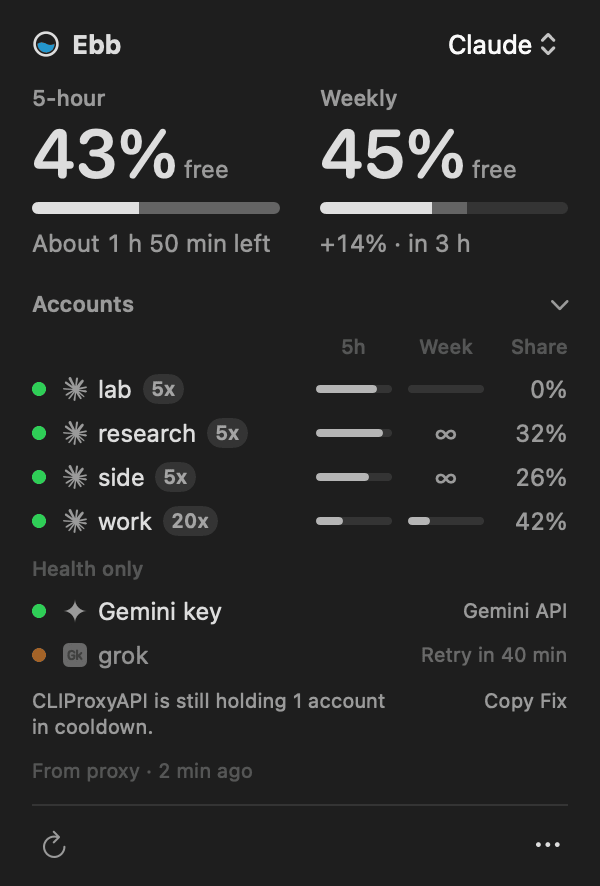
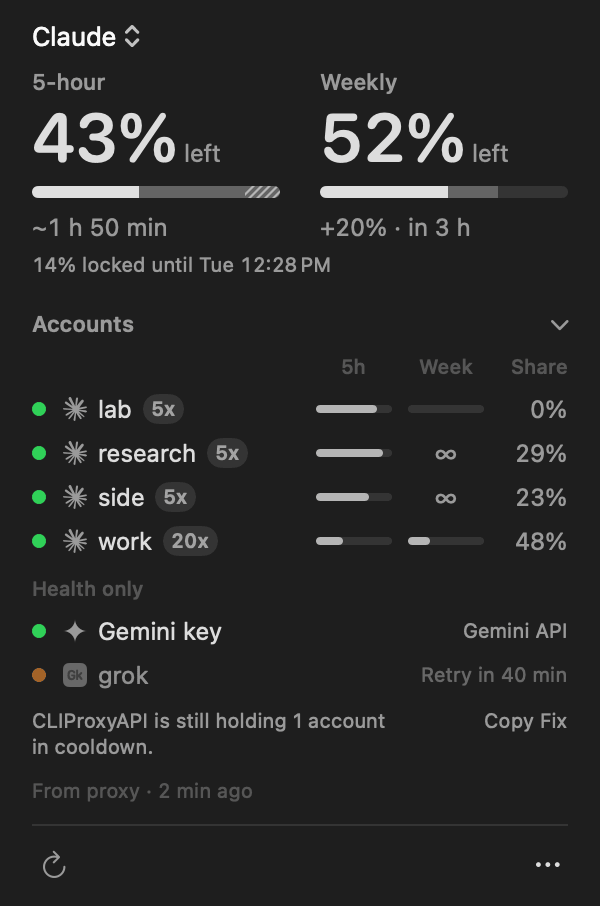
update readme media to the v0.1 panel and add the prompt cache tip
The panel changed in #7-#13: "left" copy, inline "~40 min", the locked
hatch and caption, Settings split into General and Menu Bar tabs. Every
README image and the GIF were rendered offscreen from 1d4a7a3 with --demo.
Through CLIProxyAPI Claude Code falls back to the 5-minute prompt cache;
the tip shows how to ask for the hour back.

diff --git a/README.md b/README.md
@@ -26,7 +26,7 @@
   <tr><th></th><th>Light</th><th>Dark</th></tr>
   <tr>
     <td>Panel</td>
-    <td><img src="docs/images/panel-light.png" width="300" alt="Ebb panel in light mode: 43% of the 5-hour limit and 45% of the weekly limit left, running out in about 1 h 50 min."></td>
+    <td><img src="docs/images/panel-light.png" width="300" alt="Ebb panel in light mode: 43% of the 5-hour limit and 52% of the weekly limit left, about 1 h 50 min at this pace, and 14% of the 5-hour pool locked until Tue 12:25 PM."></td>
     <td><img src="docs/images/panel-dark.png" width="300" alt="The same panel in dark mode."></td>
   </tr>
   <tr>
@@ -65,7 +65,7 @@
 ## What it shows
 
 - **5-hour and weekly limits, in one number each.** Per provider, never added across providers: a Claude 5-hour share and a Codex one are different allowances. An account that has spent its week counts as no 5-hour capacity, since it can't serve any. Its share shows as a hatched end of the 5-hour bar, with a line such as "57% locked until Tue 22:00".
-- **When it runs out, Battery style.** "About 2 h left" for the 5-hour window, rounded to the half hour (the quarter hour under an hour) while your pace is uneven, "Runs out ~Thu 14:00" for the weekly one, only when the pool is draining faster than it refills. Hovering shows the pace, including "Lasts until reset". The 5-hour pace is your recent rate while you work, idle time left out; the weekly pace is your usual rhythm over the last week. The weekly card also gives a daily share that lasts until the next meaningful reset: "About 14% a day lasts until Tue 22:00".
+- **When it runs out, Battery style.** "~2 h" under the 5-hour meter, rounded to the half hour (the quarter hour under an hour) while your pace is uneven, "Runs out ~Thu 14:00" for the weekly one, only when the pool is draining faster than it refills. Hovering shows the pace, including "Lasts until reset". The 5-hour pace is your recent rate while you work, idle time left out; the weekly pace is your usual rhythm over the last week. The weekly card also gives a daily share that lasts until the next meaningful reset: "About 14% a day lasts until Tue 22:00".
 - **What comes back, and when.** A refill line under each meter, such as "+14% · in 3 h" for the weekly window, and an optional notification when weekly capacity returns ("Claude weekly back +55%").
 - **A nudge before capacity goes to waste.** A notification once per weekly reset, when a fifth or more of a pool is about to reset unused within a day: "Claude: 40% of this week's pool resets unused tomorrow 22:00".
 - **Every account in the pool.** The accounts list shows each login's 5-hour and weekly bars, plan badge and share of the pool, plus health-only logins (API keys, providers without quota data) with their status and cooldown.
@@ -128,6 +128,16 @@ Ebb never writes CLIProxyAPI's config file or login files, so installing and sig
 Claude works without a key: Ebb reads the Claude logins in the logins folder directly. Everything else needs one. Calls "through the proxy" go through CLIProxyAPI's `api-call` endpoint, where Ebb names the account and the proxy fills in its token, so Ebb never reads those tokens.
 
 For CLIProxyAPI on another machine, set its management URL in Settings → Connection. Ebb then reads every login, Claude's included, from the proxy's listing and `api-call`, and never touches a logins folder. Use https; plain http is accepted only on a private network, and the key then crosses it unencrypted. Over plain http Ebb first checks that the address answers like CLIProxyAPI 7.3.4 or later, so a different network's router that holds the same private address never gets the key.
+
+**Keep Claude Code's 1-hour prompt cache.** Through CLIProxyAPI, Claude Code can't tell it's on a subscription, so it asks for the 5-minute prompt cache instead of the subscription's 1 hour, and a session that sits idle for more than five minutes processes its whole context again. Set the TTL yourself in `~/.claude/settings.json` (Claude Code 2.1.242 or later):
+
+```json
+{
+  "env": { "CLAUDE_CODE_PROMPT_CACHE_TTL": "1h" }
+}
+```
+
+`claude -p "hello" --output-format json` then reports cache writes under `ephemeral_1h_input_tokens` rather than `ephemeral_5m_input_tokens`. See Claude Code's [environment variables](https://code.claude.com/docs/en/env-vars) and [prompt caching](https://code.claude.com/docs/en/prompt-caching#cache-lifetime) docs.
 
 ## Command line
 
